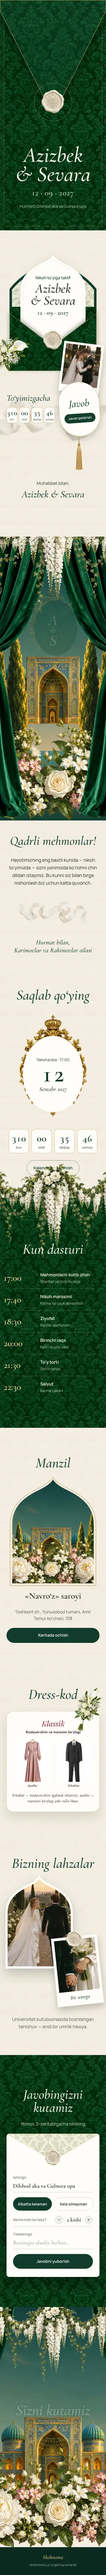
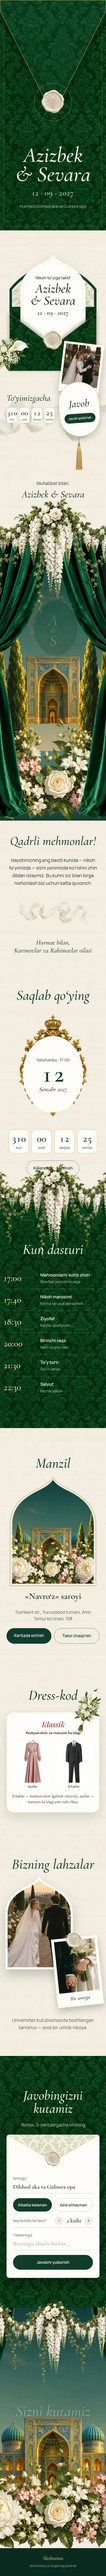
Header: «Kirish» tugmasi (kirgandan keyin — profil); Zumrad: Figma bo‘yicha monogramma, gulchambar osilishi, final sahna, taksi tugmasi
Claude-Session: https://claude.ai/code/session_016Xzx6FBjREiHoteT8V9Jy8

diff --git a/src/components/templates/zumrad/ZumradSite.tsx b/src/components/templates/zumrad/ZumradSite.tsx
@@ -67,7 +67,7 @@ function useData({ template, data, mode }: Pick<InvitationSiteProps, "template" 
       address: demo ? ZUMRAD_DEMO.address : data.address,
       city: (data.address || "Toshkent").split(/[,.]/)[0].replace(/\s+(sh|shahri|shahar)$/i, "").trim() || "Toshkent",
       mapUrl: data.mapUrl || `https://yandex.uz/maps/?text=${encodeURIComponent([data.venueName, data.address].filter(Boolean).join(", "))}`,
-      coords: coordsFrom(data.mapUrl),
+      coords: demo ? { lat: 41.3385, lon: 69.2851 } : coordsFrom(data.mapUrl),
       program: (demo ? ZUMRAD_DEMO.program : exProgram.length ? exProgram : (data.program as ProgramItem[])) as ProgramItem[],
       dress: dress && DRESS[dress] ? { ...DRESS[dress], note: str("dressNote") || DRESS[dress].note } : null,
       storyText: str("storyText") || (demo ? ZUMRAD_DEMO.storyText : ""),
@@ -406,7 +406,6 @@ function Garden({ d, wide, ready, variant = "open", onSeen }: { d: D; wide: bool
   const { p, o } = vals;
   const ty = (speed: number) => (p - 0.5) * (speed - 1) * -260;
   const px = (n: number) => (wide ? ptr.x * n : 0);
-  const mono = ease(seg(p, 0.4, 0.55));
   const bed = 1 + seg(p, 0.72, 1) * 0.25 * (variant === "open" ? 1 : 0);
   const H = variant === "open" ? (wide ? 920 : 1040) : wide ? 900 : 880;
   const curtainShift = (1 - o) * (wide ? 0 : 0) + o * (wide ? 180 : 180);
@@ -414,30 +413,43 @@ function Garden({ d, wide, ready, variant = "open", onSeen }: { d: D; wide: bool
 
   // Sarvlar va gullar joylashuvi
   const cypress: [number, number, number, number, boolean][] = wide
-    ? [
-        [-114, 220, 348, 620, false],
-        [84, 320, 292, 520, false],
-        [1031.8, 220, 348, 620, true],
-        [918, 320, 292, 520, true],
-      ]
+    ? variant === "close"
+      ? [
+          [-88.46, 240, 336.92, 600, false],
+          [1191.54, 240, 336.92, 600, true],
+        ]
+      : [
+          [-114, 220, 348, 620, false],
+          [84, 320, 292, 520, false],
+          [1205.9, 220, 348, 620, true],
+          [1064, 320, 292, 520, true],
+        ]
     : [
         [-110, 330, 314.5, 560, false],
         [185.5, 330, 314.5, 560, true],
       ];
   const beds: [number, number, number, number, boolean][] = wide
-    ? [
+    ? variant === "close"
+      ? [
+          [-150, 517.32, 680, 382.68, false],
+          [380, 517.32, 680, 382.68, true],
+          [910, 517.32, 680, 382.68, false],
+        ]
+      : [
         [-150, 520, 700, 394, false],
         [250, 520, 700, 394, true],
         [650, 520, 700, 394, false],
         [1050, 520, 700, 394, true],
       ]
     : [[-235, variant === "open" ? 550 : 396, 860, 484, false]];
-  const madrasa = wide ? [310, variant === "open" ? 300 : 380, 820, 461.5] : variant === "open" ? [-85, 470, 560, 315] : [-105, 430, 600, 338];
+  const madrasa = wide ? (variant === "open" ? [310, 300, 820, 461.5] : [360, 495.32, 720, 405.2]) : variant === "open" ? [-85, 470, 560, 315] : [-105, 430, 600, 338];
 
   return (
     <section ref={ref} className={st.scene} style={{ height: U(H) }}>
-      <div className="absolute inset-0" style={{ transform: `translateY(${ty(0.15)}px) scale(1.15)` }}>
-        <Img src={`${Z}/osmon.webp`} />
+      <div className="absolute inset-0 overflow-hidden">
+        <div className="absolute inset-0" style={{ transform: `translateY(${ty(0.15)}px) scale(1.15)` }}>
+          <Img src={`${Z}/osmon.webp`} />
+        </div>
       </div>
       {/* madrasa + hovuz aksi */}
       <div className={st.layer} style={layer({ left: U(madrasa[0]), top: U(madrasa[1]), width: U(madrasa[2]), height: U(madrasa[3]), transform: `translate(${px(-10)}px, ${ty(0.4)}px)` })}>
@@ -450,7 +462,7 @@ function Garden({ d, wide, ready, variant = "open", onSeen }: { d: D; wide: bool
           </div>
         </div>
       )}
-      {variant === "open" &&
+      {(variant === "open" || wide) &&
         cypress.map(([x, y, w, h, flip], i) => (
           <div key={i} className={st.layer} style={layer({ left: U(x), top: U(y), width: U(w), height: U(h), transform: `translate(${px(-16)}px, ${ty(0.6)}px) translateX(${(flip ? 1 : -1) * (1 - o) * 30}px)` })}>
             <Img src={`${Z}/sarv.webp`} className={flip ? st.flipX : undefined} />
@@ -463,10 +475,10 @@ function Garden({ d, wide, ready, variant = "open", onSeen }: { d: D; wide: bool
       ))}
       {/* pardalar — markazdan chetga ochiladi (final: yopiladi) */}
       {(() => {
-        const cw = variant === "open" ? (wide ? 518.9 : 586.2) : wide ? 518.9 : 496.4;
+        const cw = variant === "open" ? (wide ? 518.9 : 586.2) : wide ? 507.63 : 496.4;
         const ch = H + 4;
-        const lx = variant === "open" ? (wide ? -118.9 : -436.25) : wide ? -118.9 : -331.4;
-        const inward = variant === "open" ? (1 - o) * 180 : (1 - o) * (wide ? 260 : 120);
+        const lx = variant === "open" ? (wide ? -118.9 : -436.25) : wide ? -77.63 : -331.4;
+        const inward = variant === "open" ? (1 - o) * 180 : (1 - o) * (wide ? 110 : 50);
         return (
           <>
             <div className={st.layer} style={layer({ left: U(lx), top: U(-2), width: U(cw), height: U(ch), transform: `translateX(${U(inward)})`, zIndex: 4 })}>
@@ -479,7 +491,7 @@ function Garden({ d, wide, ready, variant = "open", onSeen }: { d: D; wide: bool
         );
       })()}
       {/* osma gulchambar — tepadan tushadi, yengil tebranadi */}
-      {(wide ? [[-60, -152, 820, 461.5], [690, -152, 820, 461.5]] : variant === "open" ? [[-195, -145, 780, 439]] : [[-85, -80, 560, 315]]).map(([x, y, w, h], i) => (
+      {(wide ? (variant === "open" ? [[-60, -152, 820, 461.5], [690, -152, 820, 461.5]] : [[-45, -115.84, 790, 444], [695, -115.84, 790, 444]]) : variant === "open" ? [[-195, -145, 780, 439]] : [[-85, -80, 560, 315]]).map(([x, y, w, h], i) => (
         <div key={i} className={st.layer} style={layer({ left: U(x), top: U(y), width: U(w), height: U(h), transform: `translate(${px(-24)}px, ${ty(1.4) + (variant === "open" ? (1 - o) * -50 : 0)}px)`, zIndex: 5 })}>
           <div className={st.sway} style={{ width: "100%", height: "100%" }}>
             <Img src={`${Z}/gulchambar.webp`} />
@@ -493,7 +505,7 @@ function Garden({ d, wide, ready, variant = "open", onSeen }: { d: D; wide: bool
             <Img src={`${Z}/oval-baxmal.webp`} className={st.contain} />
           </div>
           <Img src={`${Z}/ramka.webp`} className={st.contain} />
-          <div className={st.monogram} style={{ left: 0, right: 0, top: "38%", opacity: 1 - mono, color: "var(--gold-2)" }}>
+          <div className={st.monogram} style={{ left: 0, right: 0, top: "38%", color: "var(--gold-2)" }}>
             <span style={{ fontSize: U(wide ? 80 : 72.5), lineHeight: 0.8 }}>{d.mono[0]}</span>
             {d.mono[1] && (
               <>
@@ -501,11 +513,6 @@ function Garden({ d, wide, ready, variant = "open", onSeen }: { d: D; wide: bool
                 <span style={{ fontSize: U(wide ? 80 : 72.5), lineHeight: 0.8 }}>{d.mono[1]}</span>
               </>
             )}
-          </div>
-          <div className={st.ovalNames} style={{ left: 0, right: 0, top: "42%", opacity: mono, color: "var(--cream)", gap: U(4) }}>
-            <span style={{ fontSize: U(wide ? 36 : 32), lineHeight: 1, color: "var(--gold-2)" }}>{d.a}</span>
-            {d.b && <span style={{ fontSize: U(wide ? 36 : 32), lineHeight: 1, color: "var(--gold-2)" }}>&amp; {d.b}</span>}
-            <span style={{ fontSize: U(14), fontFamily: "Manrope, sans-serif", fontStyle: "normal", letterSpacing: "0.08em", opacity: 0.85 }}>{d.dots}</span>
           </div>
         </div>
       ) : (

diff --git a/src/components/Header.tsx b/src/components/Header.tsx
@@ -212,11 +212,11 @@ function MobileMenu({
           </button>
         ) : (
           <Link
-            href="/shablonlar/"
+            href="/kirish/"
             onClick={onClose}
             className="btn btn-primary w-full"
           >
-            Buyurtma berish
+            <ProfileCircle size={18} /> Kirish
           </Link>
         )}
         <div className="flex items-center justify-between">
@@ -368,7 +368,7 @@ function AccountMenu({
 
 export function Header() {
   const router = useRouter();
-  const { me, reload } = useMe();
+  const { me, reload, loading: meLoading } = useMe();
   const user: HeaderUser = me?.user
     ? {
         name: me.user.name,
@@ -433,9 +433,11 @@ export function Header() {
             </a>
             {user ? (
               <AccountMenu user={user} onLogout={logout} />
+            ) : meLoading && !me ? (
+              <span className="ml-1 h-9 w-[104px]" aria-hidden />
             ) : (
-              <Link href="/shablonlar/" className="btn btn-primary btn-sm ml-1">
-                Buyurtma berish
+              <Link href="/kirish/" className="btn btn-primary btn-sm ml-1">
+                <ProfileCircle size={18} /> Kirish
               </Link>
             )}
           </div>

diff --git a/src/components/templates/zumrad/zumrad.module.css b/src/components/templates/zumrad/zumrad.module.css
@@ -406,8 +406,10 @@
   --p: 0;
   --o: 0;
   position: relative;
+  z-index: 1;
   width: 100%;
-  overflow: hidden;
+  /* gulchambar Figma’dagidek yuqoridagi bo‘lim ustiga osilib turadi — faqat yon va past kesiladi */
+  clip-path: inset(calc(var(--u) * -320) 0 0 0);
 }
 .layer {
   position: absolute;
